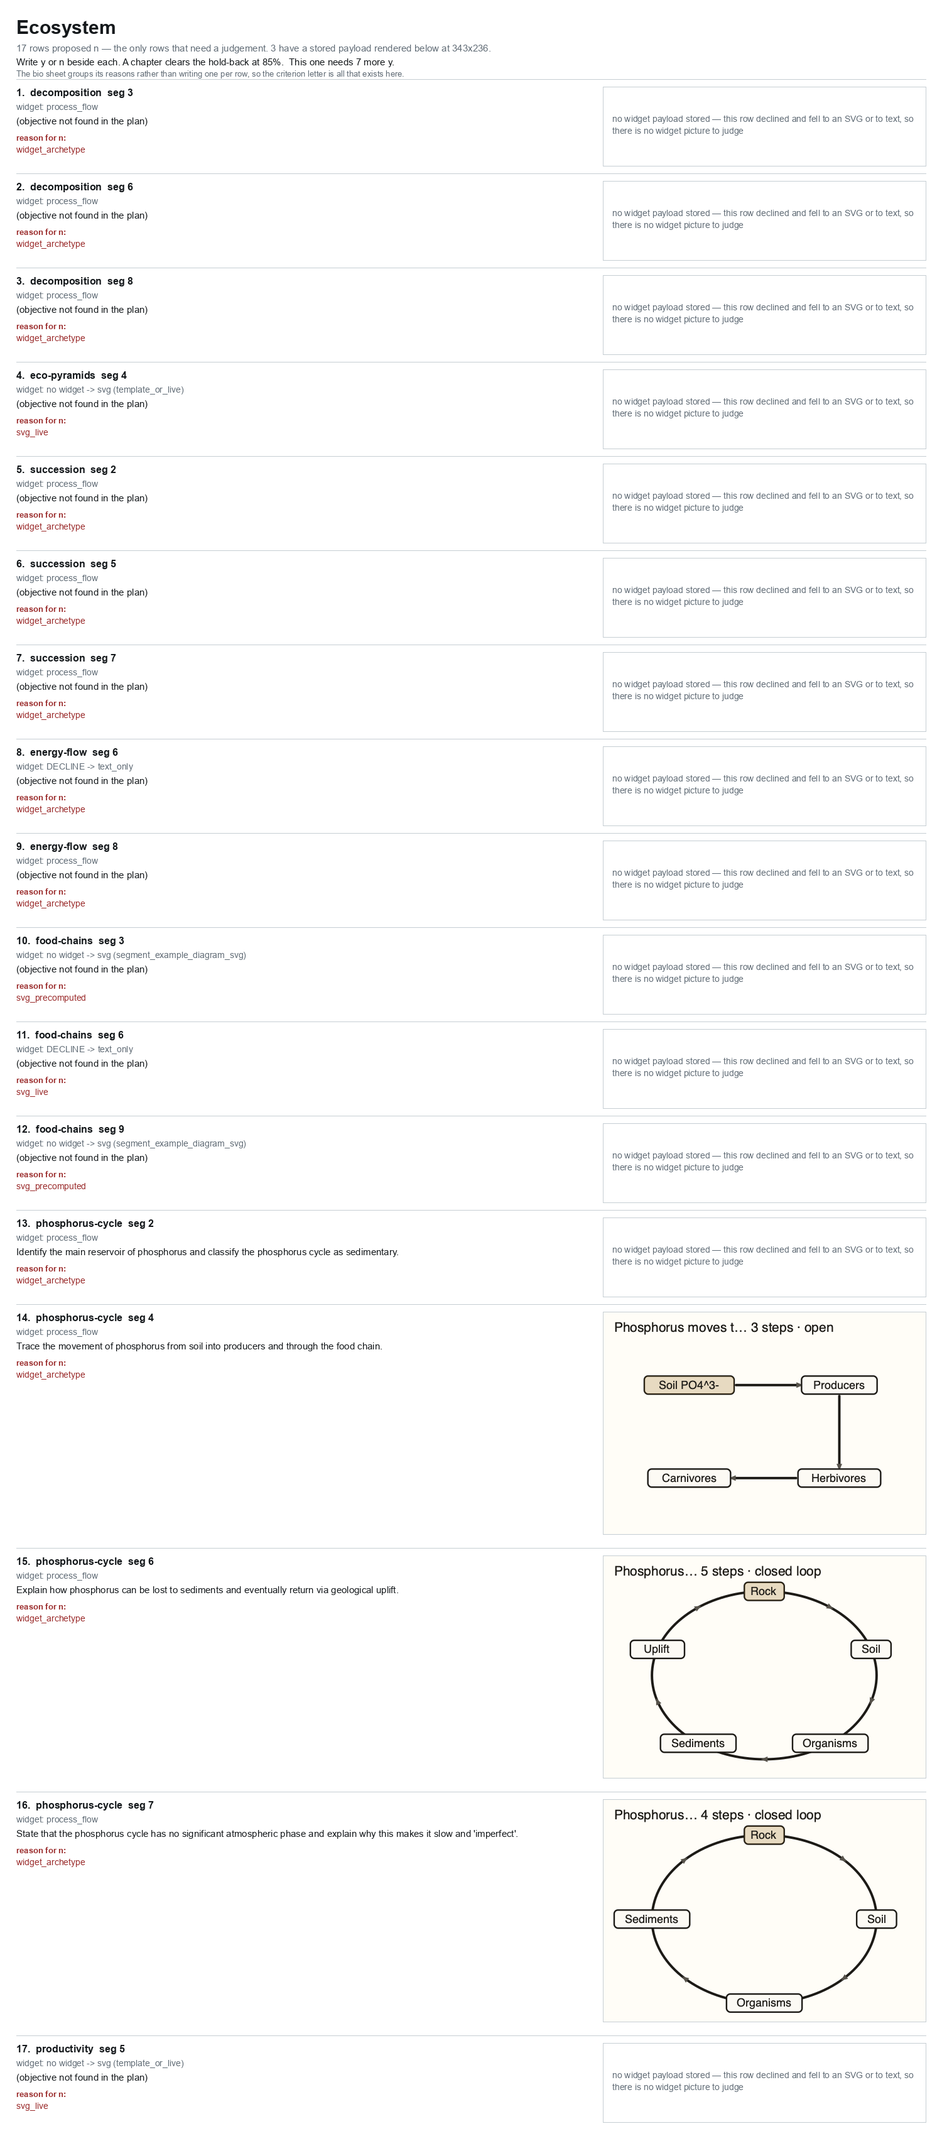
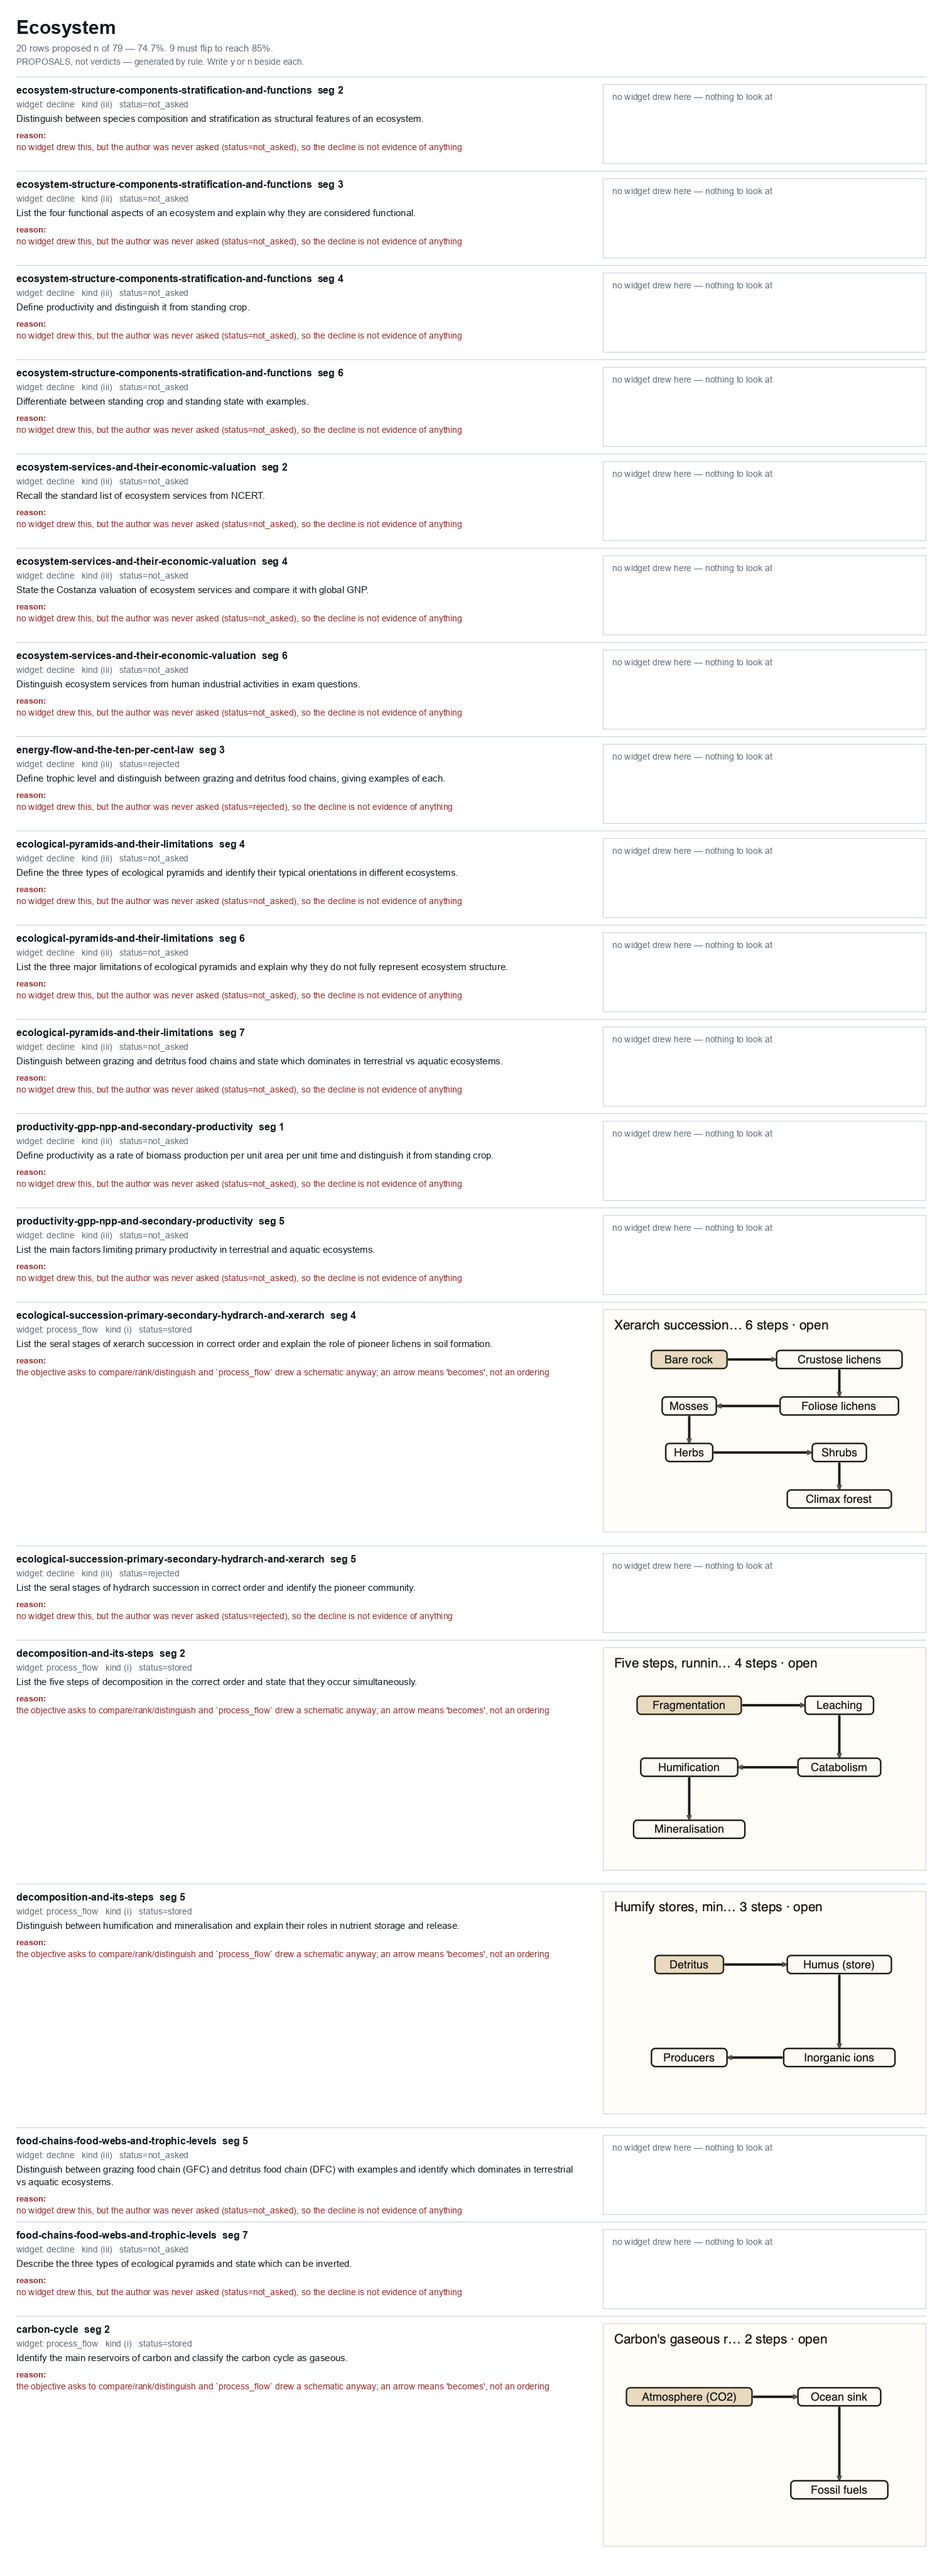
I5 review surfaces: per-chapter pages and the index
251 proposed-n rows across 29 chapters, rendered from content/sane-rows.json.
Boards come from the real widget modules via the review renderer, so the
picture on the page is the picture on the board.

diff --git a/app/practice.tsx b/app/practice.tsx
@@ -14,6 +14,7 @@ import Svg, { Path } from 'react-native-svg';
 
 import { ArrowRightIcon } from '@/components/arrow-right-icon';
 import { MathText } from '@/components/math-text';
+import { PressableScale } from '@/components/pressable-scale';
 import { QuestionDiagram } from '@/components/question-diagram';
 import { QuestionStem } from '@/components/question-stem';
 import { Skeleton, stagger } from '@/components/skeleton';
@@ -37,7 +38,7 @@ import {
   takeQueuedQuestion,
 } from '@/lib/practice';
 import { ApiError } from '@/lib/api';
-import { examSubjects, getCatalogue } from '@/lib/drona';
+import { examSubjects } from '@/lib/drona';
 import { getProfile } from '@/lib/profile';
 import { getLanguagePreference, getTeacherPreference, teacherToVoice } from '@/lib/preferences';
 import { DEFAULT_PRACTICE_FOCUS, usePracticeFocus } from '@/lib/practice-focus-context';
@@ -175,25 +176,15 @@ export default function PracticeScreen() {
    * title-only push used to start a chapterless session on the blank
    * scoping screen.
    */
-  const goLearnChapter = async (chapterTitle: string | null) => {
-    const title = chapterTitle ?? 'this topic';
-    let chapterId: string | undefined;
-    try {
-      const catalogue = await getCatalogue();
-      const wanted = title.trim().toLowerCase();
-      for (const subj of catalogue) {
-        const hit = subj.chapters.find((ch) => ch.name.trim().toLowerCase() === wanted);
-        if (hit) {
-          chapterId = hit.id;
-          break;
-        }
-      }
-    } catch {
-      // No catalogue — the title still names the chapter for scoping.
-    }
+  const goLearnChapter = (chapterTitle: string | null) => {
+    // Pushes on the same tick as the tap. This used to await getCatalogue()
+    // first and push only once it had resolved a chapterId, so on a cold
+    // catalogue the button was simply dead — no press state, no transition —
+    // for the length of a network round trip. `entering-classroom` does that
+    // lookup now, where there is a loading screen to look at while it happens.
     router.push({
       pathname: '/entering-classroom',
-      params: chapterId ? { chapterId, chapterTitle: title } : { chapterTitle: title },
+      params: { chapterTitle: chapterTitle ?? 'this topic' },
     });
   };
 
@@ -238,7 +229,7 @@ export default function PracticeScreen() {
       });
     } catch (err) {
       console.error('[practice] could not start an explain session:', err);
-      await goLearnChapter(question.chapter_name);
+      goLearnChapter(question.chapter_name);
     } finally {
       setExplaining(false);
     }
@@ -694,13 +685,17 @@ export default function PracticeScreen() {
                 That&apos;s {stuck.run} in a row you haven&apos;t known. A lesson will get you
                 further than another question.
               </Text>
-              <Pressable
+              {/* PressableScale, and no `disabled`: the flag here was
+                  `explaining`, which only ever tracks the OTHER button on this
+                  screen, so it could grey this one out for a request it has
+                  nothing to do with. The push is synchronous now, so there is
+                  no in-flight state left to guard — only a press to show. */}
+              <PressableScale
                 style={styles.stuckButton}
-                disabled={explaining}
                 onPress={() => goLearnChapter(stuck.chapter)}>
                 <Text style={styles.stuckButtonText}>Learn it with Drona</Text>
                 <ArrowRightIcon size={scale(13)} color={colors.paper} />
-              </Pressable>
+              </PressableScale>
             </View>
           )}
 

diff --git a/app/entering-classroom.tsx b/app/entering-classroom.tsx
@@ -16,7 +16,7 @@ import {
 import { useScale } from '@/constants/scale';
 import { usePortraitLock } from '@/hooks/use-landscape-lock';
 import { useStagedStatus } from '@/hooks/use-staged-status';
-import { subjectForChapter } from '@/lib/drona';
+import { getCatalogue, subjectForChapter } from '@/lib/drona';
 import {
   checkDronaTopic,
   scopeDronaSession,
@@ -51,8 +51,54 @@ export default function EnteringClassroomScreen() {
     initialUtterance?: string;
   }>();
   const chapterTitle = params.chapterTitle || 'this chapter';
-  const chapterId = params.chapterId ?? '';
+  const paramChapterId = params.chapterId ?? '';
   const initialUtterance = params.initialUtterance ?? '';
+
+  /**
+   * NAMING THE CHAPTER IS THIS SCREEN'S JOB, NOT THE CALLER'S.
+   *
+   * Practice used to await `getCatalogue()` inside the button handler and only
+   * push once it had an id, so on a cold catalogue the tap did nothing at all —
+   * no pressed state, no navigation, nothing — until a network round trip came
+   * back. This screen is the one built to be looked at while something is
+   * loading, so the lookup happens here and the tap can be instant.
+   *
+   * Every other route in (Home, Progress, the topic sheet) already passes a
+   * real `chapterId`, so for them this resolves on the first render and costs
+   * nothing.
+   */
+  const [chapterId, setChapterId] = useState(paramChapterId);
+  const [chapterResolved, setChapterResolved] = useState(
+    Boolean(paramChapterId) || !params.chapterTitle
+  );
+  useEffect(() => {
+    if (chapterResolved) return;
+    let cancelled = false;
+    const settle = (id: string) => {
+      if (cancelled) return;
+      if (id) setChapterId(id);
+      setChapterResolved(true);
+    };
+    const wanted = chapterTitle.trim().toLowerCase();
+    getCatalogue()
+      .then((catalogue) => {
+        for (const subject of catalogue) {
+          const hit = subject.chapters.find((ch) => ch.name.trim().toLowerCase() === wanted);
+          if (hit) return settle(hit.id);
+        }
+        settle('');
+      })
+      // No catalogue, or no match: the title still names the chapter for
+      // scoping, which is what the chapterless route has always done.
+      .catch(() => settle(''));
+    // Backstop in the same spirit as the params timeout below — a slow
+    // catalogue may cost the chapter id, never the class.
+    const timer = setTimeout(() => settle(''), 3000);
+    return () => {
+      cancelled = true;
+      clearTimeout(timer);
+    };
+  }, [chapterResolved, chapterTitle]);
   /**
    * Expo Router can render this screen once before its route params are
    * attached. The session used to start on that first frame, from a `[]`-deps
@@ -125,7 +171,10 @@ export default function EnteringClassroomScreen() {
   const startedRef = useRef(false);
 
   useEffect(() => {
-    if (startedRef.current || !paramsSettled) return;
+    // `chapterResolved` joins `paramsSettled` for the same reason it exists:
+    // starting before the chapter is known sends chapter_id: undefined, and a
+    // chapterless session drops the student into the scoping conversation.
+    if (startedRef.current || !paramsSettled || !chapterResolved) return;
     startedRef.current = true;
     let cancelled = false;
     // Baseline for the end-of-class moment: whatever is proven from here on
@@ -171,7 +220,7 @@ export default function EnteringClassroomScreen() {
       cancelled = true;
     };
     // eslint-disable-next-line react-hooks/exhaustive-deps
-  }, [paramsSettled]);
+  }, [paramsSettled, chapterResolved]);
 
   /**
    * A student who backs out of scoping leaves a live socket behind, and the

diff --git a/components/question-peek.tsx b/components/question-peek.tsx
@@ -2,9 +2,18 @@ import { Image } from 'expo-image';
 import { useMemo, useState } from 'react';
 import { ImageStyle, Modal, Pressable, StyleSheet, Text, ViewStyle, StyleProp } from 'react-native';
 import { Gesture, GestureDetector } from 'react-native-gesture-handler';
+import Animated, {
+  useAnimatedStyle,
+  useSharedValue,
+  withTiming,
+} from 'react-native-reanimated';
 import Svg, { Path } from 'react-native-svg';
 
 import { useScale } from '@/constants/scale';
+
+/** expo-image doesn't ship an animated variant, so the zoom transform needs
+ *  one made here. Module scope: creating it per render remounts the image. */
+const AnimatedImage = Animated.createAnimatedComponent(Image);
 
 /**
  * A question's photograph, tappable to read properly.
@@ -44,15 +53,39 @@ export function QuestionPeek({
   const { scale, verticalScale } = useScale();
   const styles = useMemo(() => createStyles(scale, verticalScale), [scale, verticalScale]);
   const [open, setOpen] = useState(false);
-  const [zoom, setZoom] = useState(1);
 
-  const pinch = Gesture.Pinch().onUpdate((e) => {
-    setZoom(Math.min(Math.max(e.scale, 1), 5));
-  });
+  /**
+   * Zoom is a shared value, so the pinch runs on the UI thread.
+   *
+   * As React state this re-rendered the component and committed a new style on
+   * every frame of the gesture, which is why the zoom felt like it was catching
+   * up with the fingers rather than following them. `.onUpdate` is a worklet
+   * now — nothing crosses to JS while a student is pinching.
+   *
+   * The pinch is relative to where the last gesture left off (`start`), which
+   * also fixes a smaller bug: each new pinch used to jump back to the raw
+   * gesture scale, so zooming in twice reset to roughly 1× on the second try.
+   */
+  const zoom = useSharedValue(1);
+  const zoomStart = useSharedValue(1);
+
+  const pinch = Gesture.Pinch()
+    .onStart(() => {
+      zoomStart.value = zoom.value;
+    })
+    .onUpdate((e) => {
+      zoom.value = Math.min(Math.max(zoomStart.value * e.scale, 1), 5);
+    });
   const doubleTap = Gesture.Tap()
     .numberOfTaps(2)
-    .onEnd(() => setZoom((z) => (z > 1.5 ? 1 : 2.5)));
+    .onEnd(() => {
+      zoom.value = withTiming(zoom.value > 1.5 ? 1 : 2.5, { duration: 180 });
+    });
   const composed = Gesture.Race(pinch, doubleTap);
+
+  const zoomStyle = useAnimatedStyle(() => ({
+    transform: [{ scale: zoom.value }],
+  }));
 
   return (
     <>
@@ -62,7 +95,7 @@ export function QuestionPeek({
         style={frameStyle}
         disabled={disabled}
         onPress={() => {
-          setZoom(1);
+          zoom.value = 1;
           setOpen(true);
         }}>
         <Image
@@ -110,9 +143,9 @@ export function QuestionPeek({
                 it 85% of nothing — the viewer opened as scrim and a Close
                 button around an invisible image. */}
             <Pressable style={styles.fullFrame} onPress={(e) => e.stopPropagation()}>
-              <Image
+              <AnimatedImage
                 source={{ uri }}
-                style={[styles.fullImage, { transform: [{ scale: zoom }] }]}
+                style={[styles.fullImage, zoomStyle]}
                 contentFit="contain"
                 accessibilityLabel={label}
               />

diff --git a/components/library-list.tsx b/components/library-list.tsx
@@ -385,6 +385,31 @@ export function LibraryList({ kind }: { kind: 'notes' | 'doubts' }) {
     );
   }, [notes, notesFilter, notesQuery]);
 
+  /**
+   * The readable form of each question, parsed once per fetch.
+   *
+   * `latexToText` is the 1,200-line regex chain in lib/latex-text.ts, and it
+   * was being called twice per row from inside the render — so every keystroke
+   * in the search field re-parsed all 60 doubts (120 passes) before the
+   * filtered list could paint, and so did every unrelated state change on this
+   * screen. Keyed on `doubts` alone, so typing never re-enters it.
+   *
+   * `components/math-text.tsx` already does exactly this with useMemo; the
+   * list was the one place calling the raw function.
+   */
+  const doubtText = useMemo(() => {
+    const byId = new Map<string, string | null>();
+    for (const doubt of doubts) {
+      // null, not '', when the row carries neither field — so the `??` at each
+      // call site still distinguishes "no question text" (show the fallback)
+      // from "question text that parses to nothing" (show nothing), exactly as
+      // the inline `stem ?? question_text ?? fallback` did.
+      const raw = doubt.stem ?? doubt.question_text;
+      byId.set(doubt.id, raw == null ? null : latexToText(raw));
+    }
+    return byId;
+  }, [doubts]);
+
   const visibleDoubts = useMemo(() => {
     const q = doubtsQuery.trim().toLowerCase();
     return doubts.filter(
@@ -728,7 +753,7 @@ export function LibraryList({ kind }: { kind: 'notes' | 'doubts' }) {
                           {doubt.question_image_url ? (
                             <QuestionPeek
                               uri={doubt.question_image_url}
-                              label={latexToText(doubt.stem ?? doubt.question_text ?? 'Snapped question')}
+                              label={doubtText.get(doubt.id) ?? 'Snapped question'}
                               frameStyle={styles.doubtThumbImage}
                               disabled={eraseMode}
                             />
@@ -746,7 +771,7 @@ export function LibraryList({ kind }: { kind: 'notes' | 'doubts' }) {
                             </Text>
                           </View>
                           <Text style={styles.doubtRowQuestion} numberOfLines={2}>
-                            {latexToText(doubt.stem ?? doubt.question_text ?? '(photo doubt)')}
+                            {doubtText.get(doubt.id) ?? '(photo doubt)'}
                           </Text>
                         </View>
                       </PressableScale>
